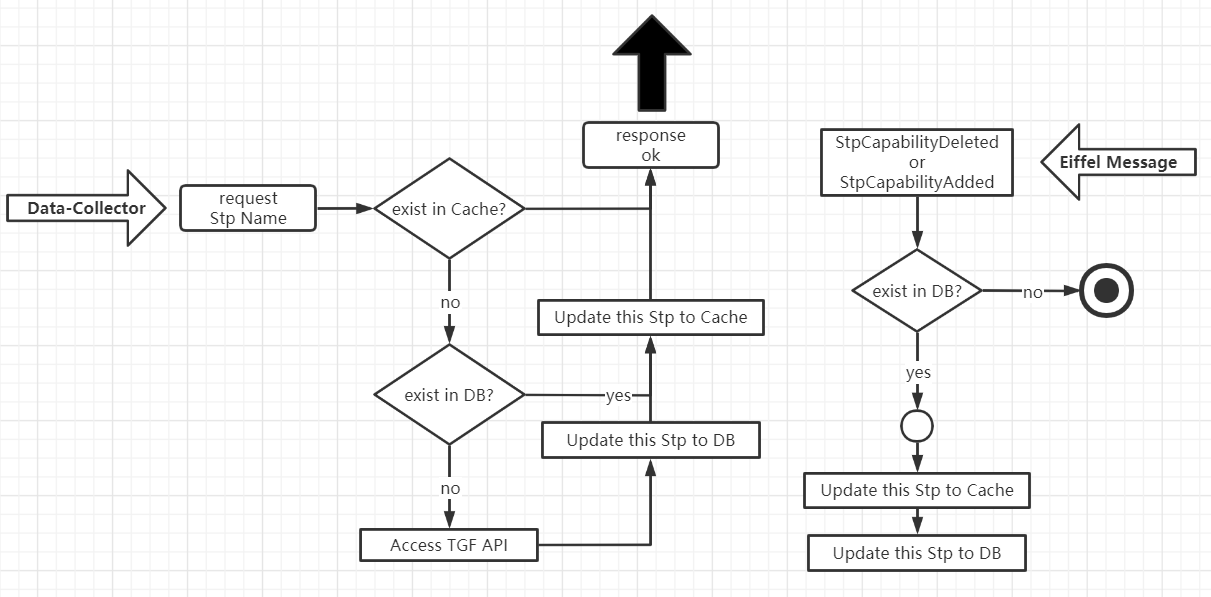
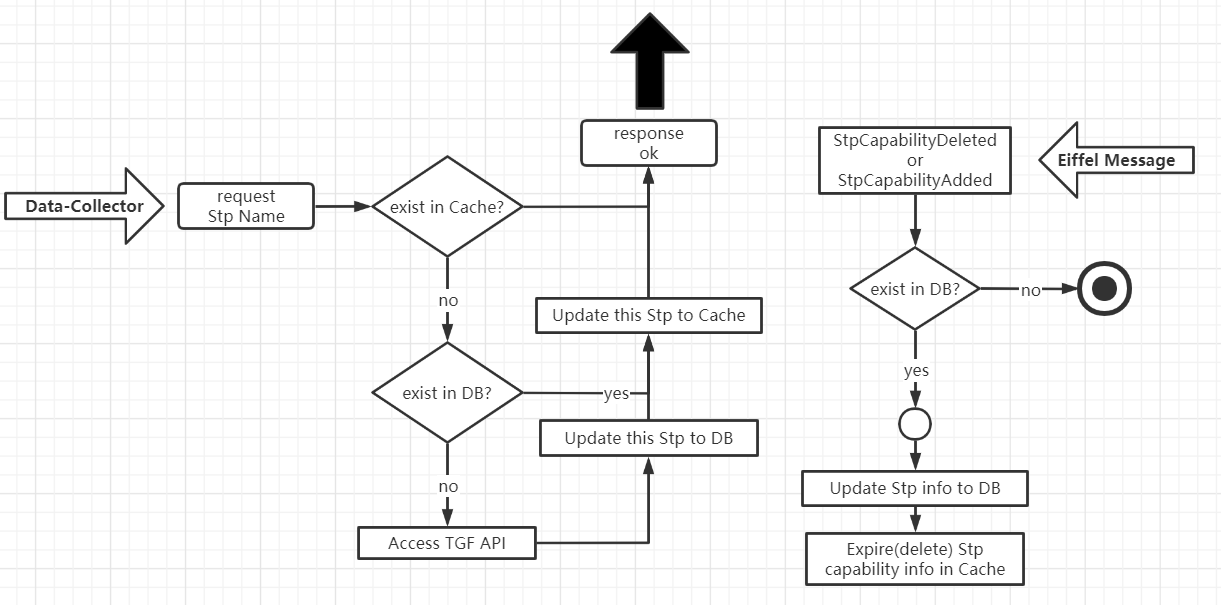
finish stp-info

Changed region(s): [[0.0, 0.0, 1.0, 0.995], [0.3361, 0.2714, 0.3972, 0.3015]]

diff --git a/STP-Info.md b/STP-Info.md
@@ -63,6 +63,26 @@
 - Redis分布式锁的误解锁问题，给每一个分布式锁匹配一个和加锁线程相关的唯一ID，解锁时需要判断该唯一ID。
 - Redis分布式锁的可重入性问题。
 
-### 2. Capability更新一个还没有及时被data-collector处理的STP
+### 2.  处理stp name请求和处理capability更新不同步（没有先后顺序）
 
-		首先从TGF的角度来说明这个问题，TGF使用某个STP执行一个Job，执行该任务结束后，该STP的capability信息发生了变动。正常情况下，TGF使用STP执行某个Job结束后，该Job相关的那些Eiffel Message应该已经被data-collector消费，其STP的信息也应该已经被Stp-Info服务处理，然后STP-info服务才会接收到修改capability的Eiffel Message。
+		从TGF的角度来说，capability的更新动作只会在某个STP没有执行Job时发生，即要么发生在某个Job执行之后，要么发生在某个Job执行之前。同时，从TGF发出Eiffel Message到这些message被data-collector和stp-info接收的时延一般在2s~3s左右。
+
+		从stp-info服务的角度来说，接收到capability的更新信息后，要么该stp信息已经存在于stp-info的数据库中，要么该stp信息不存在。不存在的情况分两种，一种是该STP还没有执行Job，另一种是该STP的JobMessage正在路上或者正在被data-collector处理。
+
+		stp信息不存在的情况下统一不去处理该capability的变更。等到data-collector处理了该STP的job，向stp-info发送stp name，此时stp-info自然会去查询TGF API得到最新的capability信息；存在的情况下直接更新就可以。
+
+### 3. 更新Stp capability缓存的方式
+
+		当stp-info接收到capability更新的Eiffel Message时，其更新数据库和缓存的流程为：先更新数据库，然后删除缓存中对应的capability信息。这个更新顺序是发生脏的概率最小的方式。其他方式会大概率出现读取缓存中脏数据的可能性：
+
+		先Update Cache再Update DB：可能造成DB和Cache数据不一致
+
+![alt data-collector-db](./image/update-cache-update-db.png)
+
+		先Update DB再Update Cache：造成从Cache中读取到脏数据v1
+
+![alt data-collector-db](./image/update-db-update-cache.png)
+
+		先Delete Cache再Update DB：造成从Cache中读取到脏数据v0
+
+![alt data-collector-db](./image/delete-cache-update-db.png)

diff --git a/Data-Collector.md b/Data-Collector.md
@@ -41,16 +41,16 @@
 - Job表插入一条新的记录，写入job_id，job_execution_id，并将该Event中的eventTime做为job_start_time。或者根据jobId/jobExecutionId查询已经存在的纪录，并更新以上字段。（有可能是data-collector先收到了该Job其他的event，所以jobId/jobExecutionId对应的纪录已经存在）
 - JobActivity表插入一条job_activity_type为job_queue的新纪录，写入job_id，job_execution_id，并将该Event中的eventTime字段的值做为job_activity_start_time。或者根据jobId/jobExecutionId查询job_activity_type为job_queue的纪录，并更新以上字段。(有可能是data-collector先收到了该Job的JobStartedEvent，所以该jobId或者jobExecutionId对应的job_activity_type为job_queue的纪录已经存在）
 - JobActivityEvent表中插入一条新的记录，写入event_id和job_activity_id字段。
-- 从该Event中获取stp字段，使用该值访问stp-cache模块，获取stp的详细信息。
 - Event表中插入一条新的纪录，写入相关字段。
 
 ### 2、当接收到JobStartedEvent时
 
 - Job表插入一条新的纪录，写入job_id，job_execution_id。或者根据jobId/jobExecutionId查询已经存在的纪录，并更新以上字段。
-
 - JobActivity分别表插入两条job_activity_type为job_queue和job_execution的新纪录。写入job_id，job_execution_id，并将该Event中的eventTime字段的值分别做为job_activity_type为job_queue纪录的job_activity_end_time以及job_activity_type为job_execution纪录的job_activity_start_time。或者根据jobId/jobExecutionId分别查询job_activity_type为job_queue和job_execution的纪录，并更新以上字段。
 - JobActivityEvent表中插入一条新的记录，写入event_id和job_activity_id字段。
 - Event表中插入一条新的纪录，写入相关字段。
+- 从该Event中获取stp字段，使用该值访问stp-cache模块，处理stp的详细信息。
+- StpJob表插入一条记录，写入job_id，job_execution_id以及stp_name字段。
 
 ### 3、当接收到TestcaseStartedEvent时
 

diff --git a/SUV.md b/SUV.md
@@ -26,3 +26,7 @@ SUV 项目总结
 
 ## 五、SUV中解决的主要问题
 
+### 1. 数据量增大后，读数据缓慢，数据库索引的设置
+
+### 2. 一次线程暴增问题的排查
+
